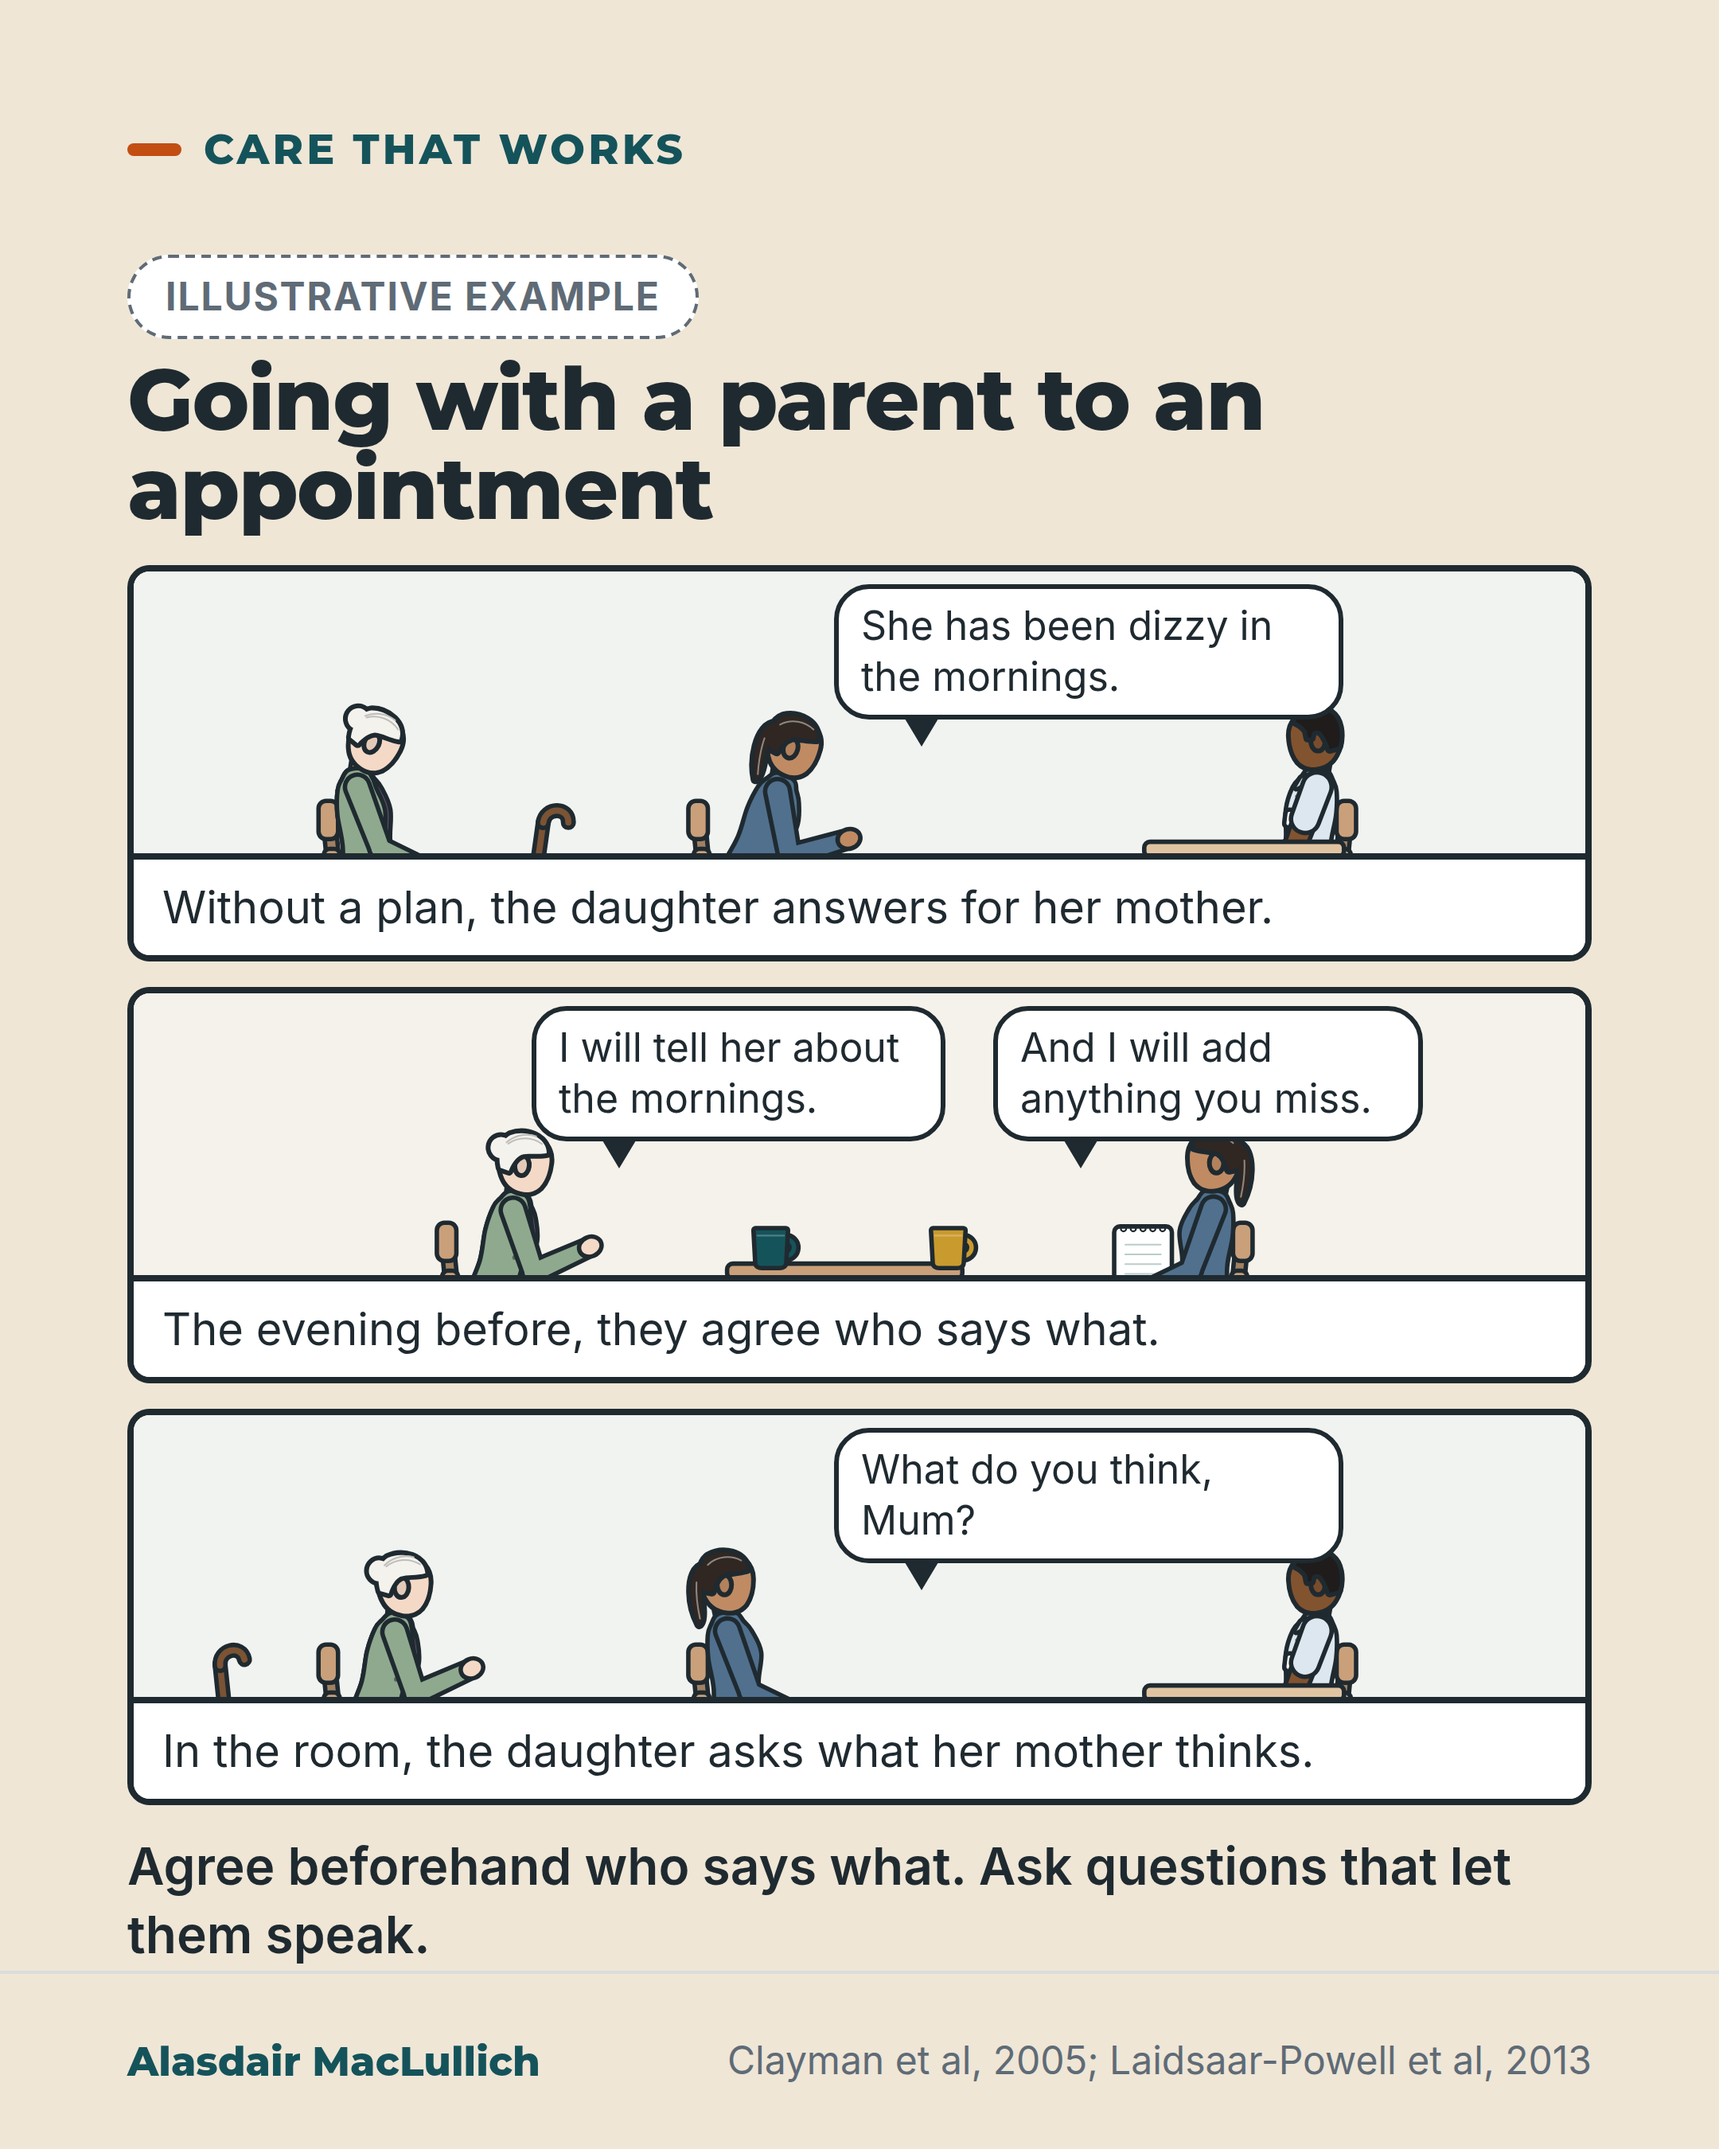
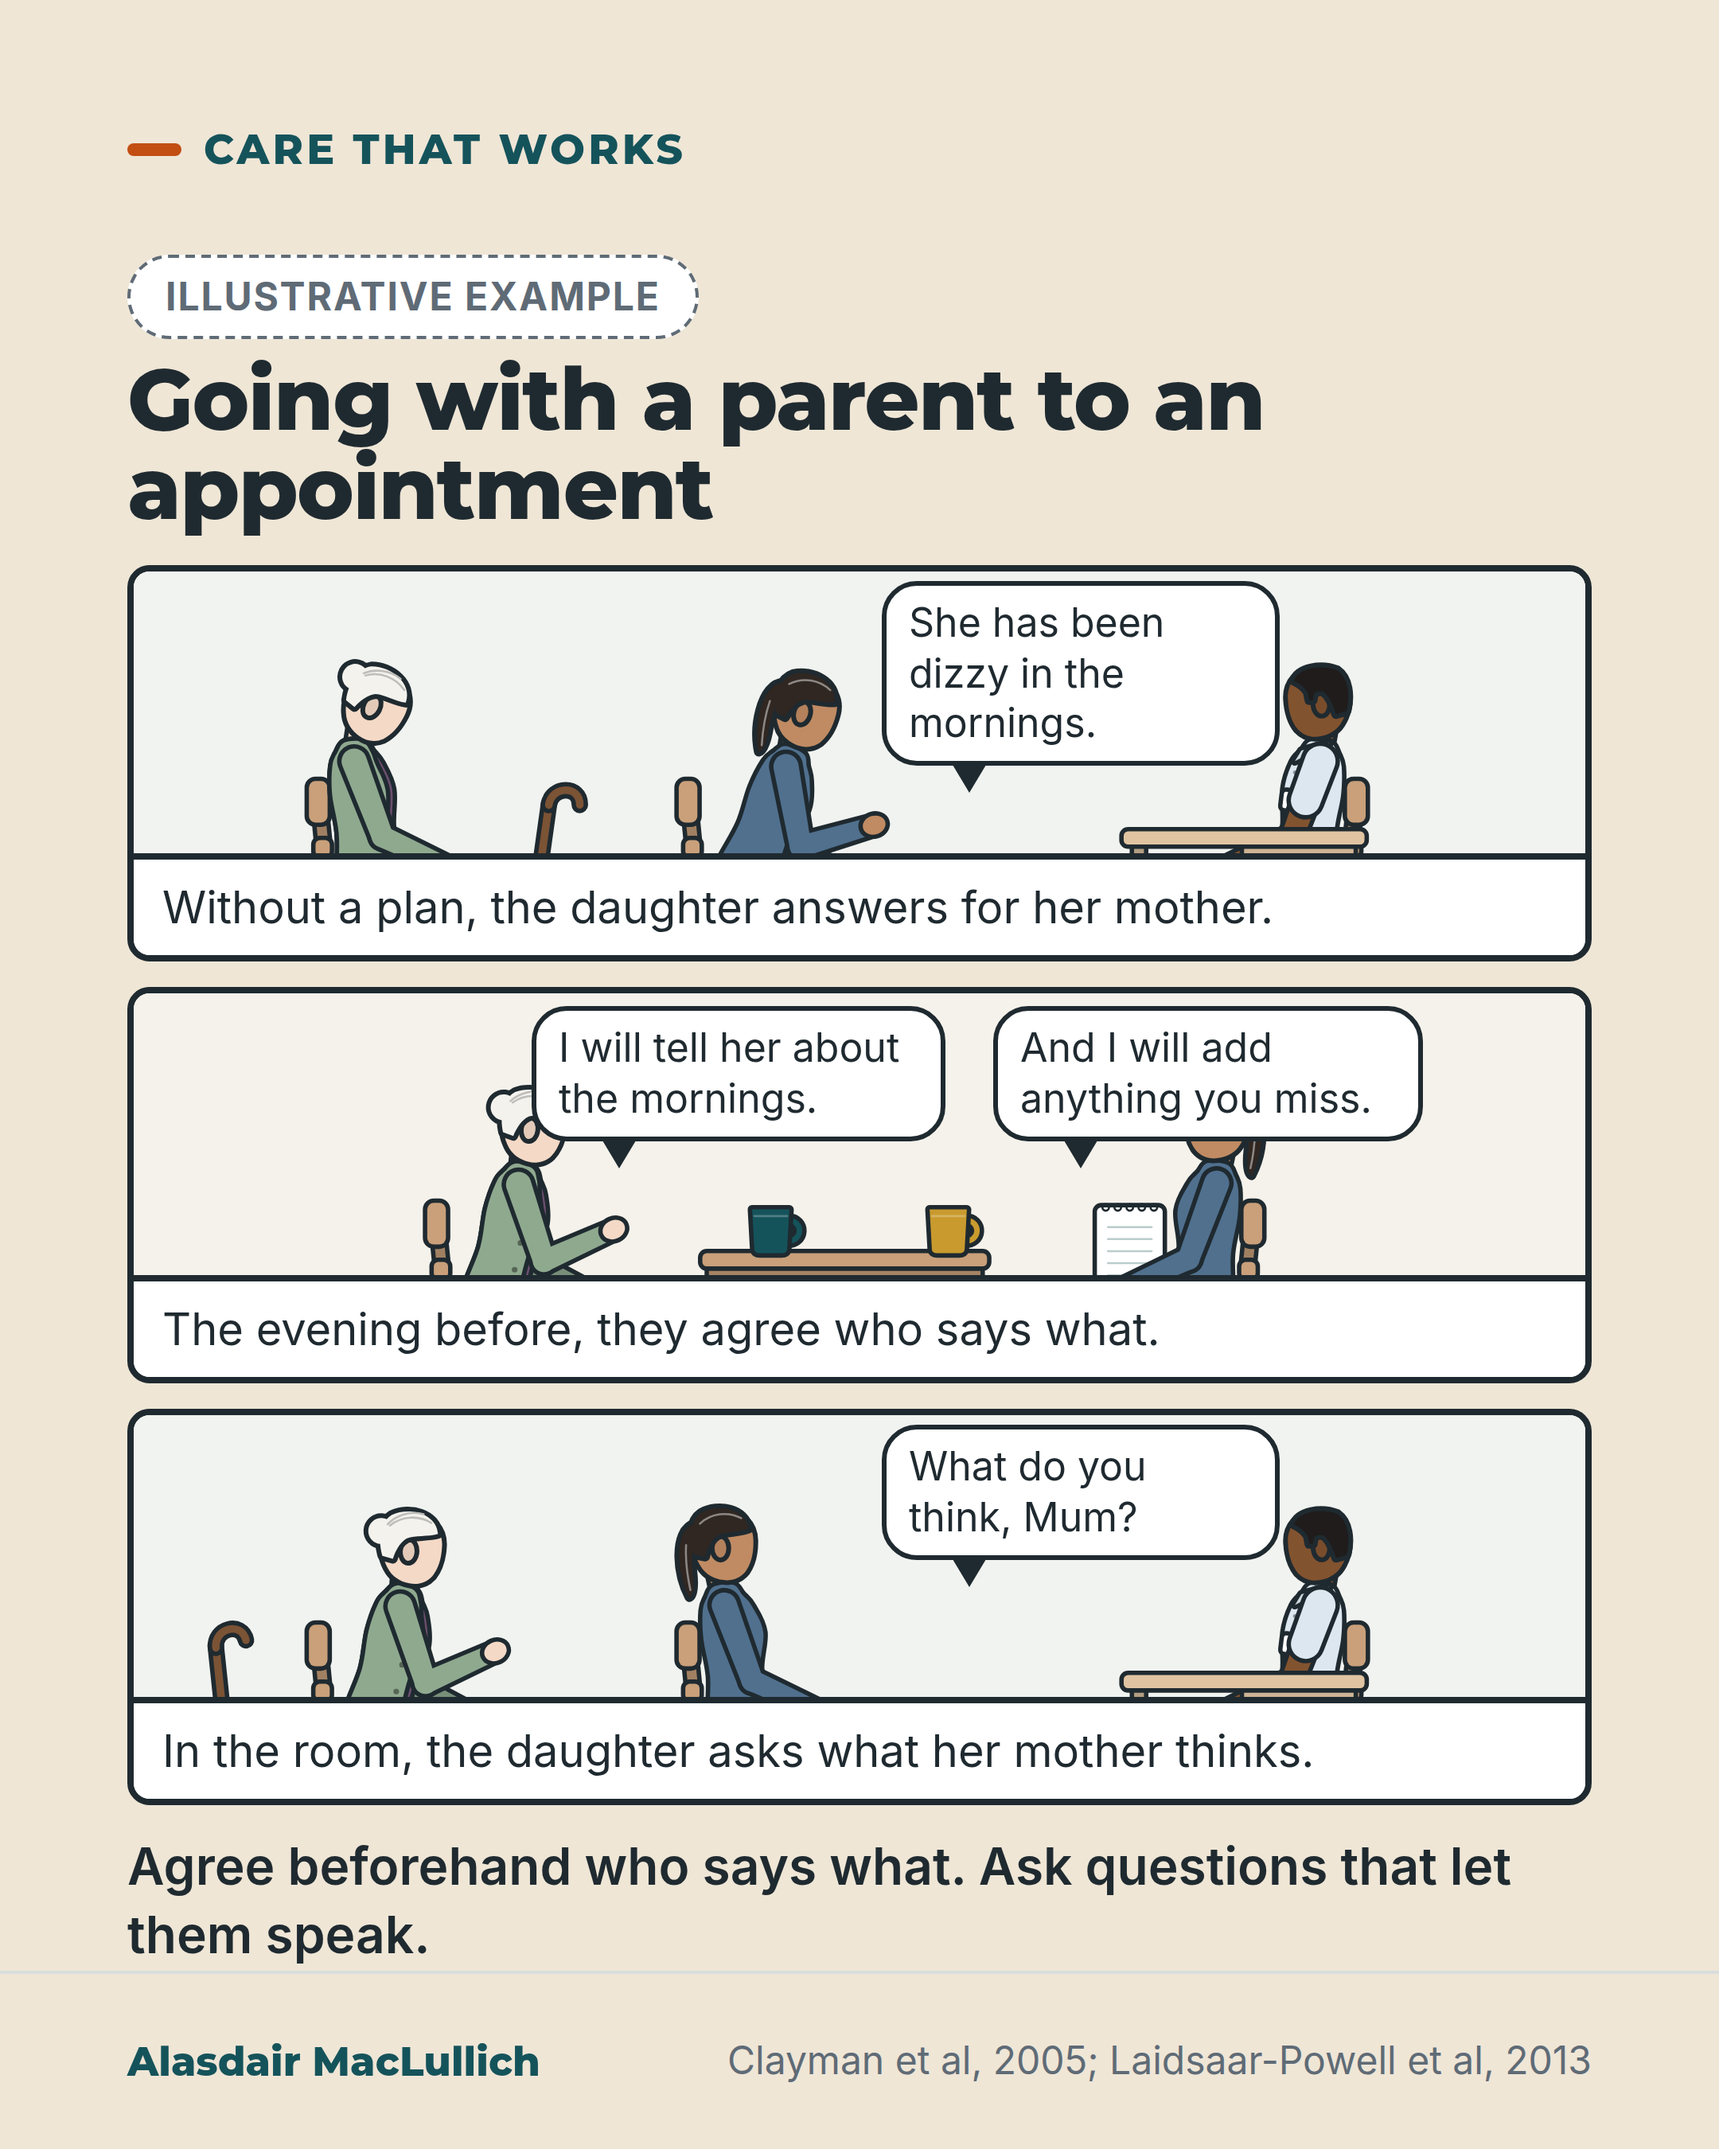
WIP

diff --git a/geriatrics-200_2026-09-25/visuals/src/C09-P03.html b/geriatrics-200_2026-09-25/visuals/src/C09-P03.html
@@ -16,9 +16,9 @@
   <span class="badge illustrative">Illustrative example</span>
   <h1 class="s">Going with a parent to an appointment</h1>
   <div class="strip p3">
-   <div class="panelbox"><div class="art" id="p1"><div class="bubble" style="left:440px;top:8px;max-width:320px">She has been dizzy in the mornings.</div></div><div class="cap">Without a plan, the daughter answers for her mother.</div></div>
+   <div class="panelbox"><div class="art" id="p1"><div class="bubble" style="left:470px;top:6px;max-width:250px">She has been dizzy in the mornings.</div></div><div class="cap">Without a plan, the daughter answers for her mother.</div></div>
    <div class="panelbox"><div class="art" id="p2"><div class="bubble" style="left:250px;top:8px;max-width:260px">I will tell her about the mornings.</div><div class="bubble" style="left:540px;top:8px;max-width:270px">And I will add anything you miss.</div></div><div class="cap">The evening before, they agree who says what.</div></div>
-   <div class="panelbox"><div class="art" id="p3"><div class="bubble" style="left:440px;top:8px;max-width:320px">What do you think, Mum?</div></div><div class="cap">In the room, the daughter asks what her mother thinks.</div></div>
+   <div class="panelbox"><div class="art" id="p3"><div class="bubble" style="left:470px;top:6px;max-width:250px">What do you think, Mum?</div></div><div class="cap">In the room, the daughter asks what her mother thinks.</div></div>
   </div>
   <p class="rule2">Agree beforehand who says what. Ask questions that let them speak.</p>
  </div>
@@ -26,7 +26,7 @@
 </div>
 </div>
 <script>
-const K = Kit, W = 1000, H = 190, S = 0.6, g = 285;
+const K = Kit, W = 1000, H = 190, S = 0.74, g = 300;
 const mum = { age: 'older', sex: 'f', skin: 'light', hair: 'white', hairStyle: 'bun', top: 'plum', bottom: 'stone', extras: ['cardigan'], cardigan: 'sage' };
 const dau = { age: 'adult', sex: 'f', skin: 'olive', hair: 'dark', hairStyle: 'ponytail', top: 'denim', bottom: 'charcoal' };
 const doc = { role: 'doctor', sex: 'm', skin: 'brown', hair: 'black', hairStyle: 'cropped' };

diff --git a/geriatrics-200_2026-09-25/visuals/src/C19-P01.html b/geriatrics-200_2026-09-25/visuals/src/C19-P01.html
@@ -37,6 +37,6 @@ barChart('#bars',[
  {label:'Accurate (within a third of actual time)',value:20,display:'20 in 100',colour:'a'},
  {label:'Too optimistic',value:63,display:'63 in 100',colour:'b'},
  {label:'Too pessimistic',value:17,display:'17 in 100',colour:'empty'}
-],{max:100,width:920,gap:90,ticks:[0,25,50,75,100]});
+],{max:100,width:920,gap:130,ticks:[0,25,50,75,100]});
 window.__ready = true;
 </script></body></html>

diff --git a/geriatrics-200_2026-09-25/visuals/src/C19-P02.html b/geriatrics-200_2026-09-25/visuals/src/C19-P02.html
@@ -4,7 +4,7 @@
 <script src="../design_system/kit.js"></script>
 <script>window.__ready = false;</script>
 <style>
- .compare{margin-top:34px}
+ .compare{margin-top:34px;flex:0 0 auto}
  .compare .col .tag{font-size:26px;letter-spacing:.02em;text-transform:none;line-height:1.3;color:var(--ink);font-family:Inter;font-weight:700}
  .compare .col.b .tag{color:var(--teal)}
  .compare .col p,.compare .col li{font-size:32px}
